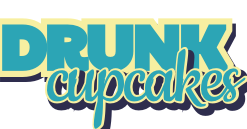
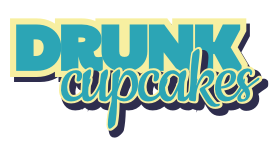
started user page and updated small css things

diff --git a/app/javascript/react/components/UserShow.js b/app/javascript/react/components/UserShow.js
@@ -1,0 +1,36 @@
+import React, { useState, useEffect } from 'react'
+
+const UserShow = (props) => {
+  const [getUser, setUser] = useState({})
+
+  const id = props.match.params.id
+
+  useEffect(() => {
+    fetch(`/api/v1/users/${id}`)
+    .then(response => {
+      if (response.ok) {
+        return response
+      } else {
+        const errorMessage = `${response.status} (${response.statusText})`;
+        const error = new Error(errorMessage);
+        throw(error);
+      }
+    })
+    .then(response => response.json())
+    .then(responseBody => {
+      setUser(responseBody);  
+    })
+  .catch(error => console.error(`Error in fetch: ${error.message}`))
+  }, [])
+
+console.log(getUser)
+  return(
+    <div className="grid-container">
+      <div className="grid-x">
+        <h1>Hello {getUser.first_name}!</h1>
+      </div>
+    </div>
+  )
+}
+
+export default UserShow

diff --git a/app/javascript/react/components/Home.js b/app/javascript/react/components/Home.js
@@ -1,7 +1,7 @@
 import React from 'react'
 import { Link } from 'react-router-dom'
 
-import cupcake from '../../../assets/images/cupcake.png'
+import crunkcake from '../../../assets/images/crunkcake.png'
 
 export const Home = (props) => {
   return(
@@ -9,7 +9,7 @@ export const Home = (props) => {
       <div className="align-self-middle">
       <div className="grid-x grid-padding-x grid-padding-y grid-margin-x align-middle align-center">
         <div className="cell medium-4 text-center">
-          <img src={cupcake}/>
+          <img src={crunkcake}/>
         </div>
         <div className="cell auto callout-purple">
           <h1>Welcome to Drunk Cupcakes!</h1>

diff --git a/app/javascript/react/components/App.js b/app/javascript/react/components/App.js
@@ -4,6 +4,7 @@ import { Route, Switch, BrowserRouter } from 'react-router-dom'
 import Home from './Home'
 import SearchIndex from './SearchIndex'
 import RecipeShow from './RecipeShow'
+import UserShow from './UserShow'
 
 
 export const App = (props) => {
@@ -13,6 +14,7 @@ export const App = (props) => {
         <Route exact path="/" component={Home}/>
         <Route exact path="/search" component={SearchIndex}/>
         <Route exact path="/recipe/:id" component={RecipeShow}/>
+        <Route exact path="/users/:id" component={UserShow} />
       </Switch> 
   </BrowserRouter>
   )

diff --git a/app/assets/stylesheets/navigation.scss b/app/assets/stylesheets/navigation.scss
@@ -29,6 +29,10 @@ $topbar-center-logo-bg: $violet;
       color: $green-yellow-crayon;
       font-family: 'Indie Flower', cursive;
       font-size: 1.5rem;
+        
+      &:hover {
+        opacity: 80%;
+      }
     }
   }
 }

diff --git a/app/assets/stylesheets/custom_styles.scss b/app/assets/stylesheets/custom_styles.scss
@@ -20,6 +20,10 @@ body {
   padding: .5rem 1rem;
   border-radius: 10px;
   text-align: center;
+  
+  &:hover {
+    opacity: 80%;
+  }
 }
 
 .callout-purple {

diff --git a/config/routes.rb b/config/routes.rb
@@ -2,9 +2,11 @@ Rails.application.routes.draw do
   root 'homes#index'
   devise_for :users
 
+
   namespace :api do
     namespace :v1 do
       resources :recipes, only: [:index, :show]
+      resources :users, only: [:show]
     end
   end
   get '*page', to: 'homes#index'

diff --git a/app/controllers/api/v1/users_controller.rb b/app/controllers/api/v1/users_controller.rb
@@ -1,0 +1,7 @@
+class Api::V1::UsersController < ApplicationController
+  def show
+    @user = User.find(params[:id])
+    @user_id = @user.id
+    render json: @user
+  end
+end
